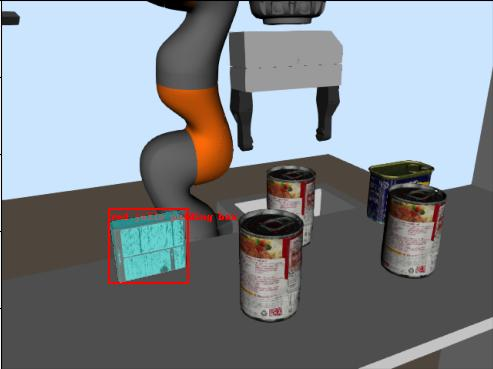
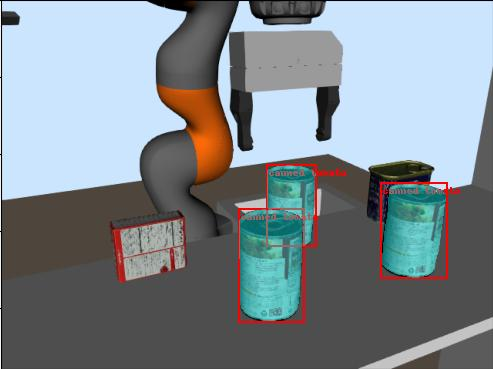
compute 3d coordinate from machine learning model

Changed region(s): [[0.213, 0.4173, 0.6998, 0.8943], [0.7606, 0.477, 0.9432, 0.7751]]

diff --git a/src/python/grasp_selector.py b/src/python/grasp_selector.py
@@ -1,13 +1,15 @@
 import numpy as np
 
 from pydrake.all import (AbstractValue, Concatenate, LeafSystem, PointCloud, RigidTransform, 
-                         RollPitchYaw, Sphere, Rgba, Image, ImageRgba8U)
+                         RollPitchYaw, Sphere, Rgba, Image, ImageRgba8U, ImageDepth16U, ImageDepth32F)
 
 from manipulation.clutter import GenerateAntipodalGraspCandidate
 
 import helpers
 
 import segmentation
+from  PIL import Image as PILImage
+from lang_sam.utils import draw_image
 
 import torchvision.transforms.functional as Tf
 import matplotlib.pyplot as plt
@@ -30,13 +32,12 @@ class GraspSelector(LeafSystem):
             "grasp_selection", lambda: AbstractValue.Make(
                 (np.inf, RigidTransform())), self.SelectGrasp)
         self.DeclareAbstractInputPort("rgb1", AbstractValue.Make(Image(31,31)))
+        self.DeclareAbstractInputPort("depth1", AbstractValue.Make(ImageDepth32F(31,31)))
         port.disable_caching_by_default()
 
         # Compute crop box.
         context = plant.CreateDefaultContext()
         X_B = RigidTransform([0,0,0])
-        #a = X_B.multiply([-.28, -.72, 0.36])
-        #b = X_B.multiply([0.26, -.47, 0.57])
         a = X_B.multiply(cropPointA)
         b = X_B.multiply(cropPointB)
 
@@ -44,8 +45,8 @@ class GraspSelector(LeafSystem):
         self.diag = diag
         self.cntxt31 = diag.CreateDefaultContext()
 
-        self.num_classes = 7
-        self.model, self.device = segmentation.setup_model(self.num_classes)
+        #self.num_classes = 7
+        #self.model, self.device = segmentation.setup_model(self.num_classes)
 
         # cntxt31 = diag.CreateDefaultContext()
         # rgb_im = diag.GetOutputPort('camera{}_rgb_image'.format(1)).Eval(cntxt31).data
@@ -74,14 +75,105 @@ class GraspSelector(LeafSystem):
         self._camera_body_indices = camera_body_indices
         self.running_as_notebook = running_as_notebook
 
+        self.lang_sam_model = segmentation.get_lang_sam("vit_b")
+
+
+        cam1 = diag.GetSubsystemByName("camera1")
+        self.cam_info = cam1.depth_camera_info()
+        print("CAM INFO", self.cam_info)
+
+        cam1_context = cam1.GetMyMutableContextFromRoot(cntxt31)
+        self.X_WC_Cam1 = cam1.body_pose_in_world_output_port().Eval(cam1_context)
+
+    def project_depth_to_pC(self, depth_pixel, uv=None):
+        """
+        project depth pixels to points in camera frame
+        using pinhole camera model
+        Input:
+            depth_pixels: numpy array of (nx3) or (3,)
+        Output:
+            pC: 3D point in camera frame, numpy array of (nx3)
+        """
+        # switch u,v due to python convention
+        v = depth_pixel[:, 0]
+        u = depth_pixel[:, 1]
+        Z = depth_pixel[:, 2]
+        # read camera intrinsics
+        cx = self.cam_info.center_x()
+        cy = self.cam_info.center_y()
+        fx = self.cam_info.focal_x()
+        fy = self.cam_info.focal_y()
+        X = (u - cx) * Z / fx
+        Y = (v - cy) * Z / fy
+        pC = np.c_[X, Y, Z]
+        return pC
+
     def SelectGrasp(self, context, output):
     
         rgb_im = self.get_input_port(4).Eval(context).data
         plt.imshow(rgb_im)
         plt.show()
-        # rgb_im = self.station.GetOutputPort('camera{}_rgb_image'.format(1)).Eval(self.cntxt31).data
-        # rgb_im = self.station.GetOutputPort('camera{}_rgb_image'.format(1))
-        # print(type(rgb_im))
+
+        #image_pil = Image.open(rgb_im).convert("RGB")
+        image_pil = PILImage.fromarray(rgb_im).convert("RGB")
+        plt.imshow(image_pil)
+        plt.show()
+        text_prompt = 'canned tomato'
+        masks, boxes, phrases, logits = self.lang_sam_model.predict(image_pil, text_prompt)
+        print("masks", masks)
+        print("masks shape", masks.shape)
+        print("boxes", boxes)
+        print("phrases", phrases)
+        print("logits", logits)
+
+        smallest_sum = [2**30,0,0] # value and coordinates
+        largest_sum = [0,0,0]
+
+        for x in range(masks[0].shape[0]):
+            for y in range(masks[0].shape[1]):
+                if masks[0][x][y] == True and x + y > largest_sum[0]:
+                    largest_sum = [x+y, x, y]
+                if masks[0][x][y] == True and x + y < smallest_sum[0]:
+                    smallest_sum = [x+y, x, y]
+
+        print("smallest sum", smallest_sum)
+        print("largest sum", largest_sum)
+
+        np_image = np.array(image_pil)
+        result = draw_image(np_image, masks, boxes, phrases)
+        plt.imshow(result)
+        plt.show()
+
+        
+
+                    
+
+
+        #rgb_im = self.station.GetOutputPort('camera{}_rgb_image'.format(1)).Eval(self.cntxt31).data
+        #rgb_im = self.station.GetOutputPort('camera{}_rgb_image'.format(1))
+        #print(type(rgb_im))
+
+        depth_im = self.get_input_port(5).Eval(context).data.squeeze()
+        #depth_im[depth_im == np.inf] = 50.0
+        print("DEPTH IMAGE", depth_im)
+        print("DEPTH SHAPE", depth_im.shape)
+
+        img_h, img_w = depth_im.shape
+        v_range = np.arange(img_h)
+        u_range = np.arange(img_w)
+        depth_u, depth_v = np.meshgrid(u_range, v_range)
+        depth_pnts = np.dstack([depth_v, depth_u, depth_im])
+        depth_pnts = depth_pnts.reshape([img_h * img_w, 3])
+        # point poses in camera frame
+        pC = self.project_depth_to_pC(depth_pnts)
+        print("PC", pC)
+        print("PC SHAPE", pC.shape)
+        pC = np.reshape(pC,(480,640,3))
+        print("PC", pC)
+        print("PC SHAPE", pC.shape)
+
+
+
 
         # res = self.model([Tf.to_tensor(rgb_im[:, :, :3]).to(self.device)])
 
@@ -110,12 +202,53 @@ class GraspSelector(LeafSystem):
         # plt.colorbar()
         # plt.show()
 
+        print("CROP POINTS", pC[smallest_sum[1]][smallest_sum[2]], pC[largest_sum[1]][largest_sum[2]])
+
+        X_Crop1 = self.X_WC_Cam1 @ RigidTransform(pC[smallest_sum[1]][smallest_sum[2]])
+        print("CROPPED FRAME1", X_Crop1)
+        X_Crop2 = self.X_WC_Cam1 @ RigidTransform(pC[largest_sum[1]][largest_sum[2]])
+        print("CROPPED FRAME2", X_Crop2)
+
+        # Solves: Failure at perception/point_cloud.cc:350 in Crop(): condition '(lower_xyz.array() <= upper_xyz.array()).all()' failed.
+        X_Crop1_Array = [X_Crop1.translation()[0], X_Crop1.translation()[1], X_Crop1.translation()[2]]
+        X_Crop2_Array = [X_Crop2.translation()[0], X_Crop2.translation()[1], X_Crop2.translation()[2]]
+
+        print(type(X_Crop1_Array))
+        print(X_Crop1_Array)
+        print(X_Crop2_Array)
+
+        if X_Crop1_Array[0] > X_Crop2_Array[0]:
+            tmp = X_Crop2_Array[0]
+            X_Crop2_Array[0] = X_Crop1_Array[0]
+            X_Crop1_Array[0] = tmp
+        if X_Crop1_Array[1] > X_Crop2_Array[1]:
+            tmp = X_Crop2_Array[1]
+            X_Crop2_Array[1] = X_Crop1_Array[1]
+            X_Crop1_Array[1] = tmp
+        if X_Crop1_Array[2] > X_Crop2_Array[2]:
+            tmp = X_Crop2_Array[2]
+            X_Crop2_Array[2] = X_Crop1_Array[2]
+            X_Crop1_Array[2] = tmp
+
+        print(X_Crop1_Array)
+        print(X_Crop2_Array)
+        X_Crop1_Array[0] = X_Crop1_Array[0] - 0.025
+        X_Crop1_Array[1] = X_Crop1_Array[1] - 0.025
+        X_Crop1_Array[2] = X_Crop1_Array[2] - 0.025
+
+        X_Crop2_Array[0] = X_Crop2_Array[0] + 0.025
+        X_Crop2_Array[1] = X_Crop2_Array[1] + 0.025
+        X_Crop2_Array[2] = X_Crop2_Array[2] + 0.025
+
+        print(X_Crop1_Array)
+        print(X_Crop2_Array)
 
         body_poses = self.get_input_port(3).Eval(context)
         pcd = []
         for i in range(3):
             cloud = self.get_input_port(i).Eval(context)
-            pcd.append(cloud.Crop(self._crop_lower, self._crop_upper))
+            #pcd.append(cloud.Crop(self._crop_lower, self._crop_upper))
+            pcd.append(cloud.Crop(np.array(X_Crop1_Array), np.array(X_Crop2_Array)))
             pcd[i].EstimateNormals(radius=0.1, num_closest=30)
 
             # Flip normals toward camera
@@ -138,9 +271,12 @@ class GraspSelector(LeafSystem):
 
         if len(costs) == 0:
             # Didn't find a viable grasp candidate
+            print("Didn't find a viable grasp candidate")
             X_WG = RigidTransform(RollPitchYaw(-np.pi / 2, 0, np.pi / 2),
                                   [0.5, 0, 0.22])
             output.set_value((np.inf, X_WG))
         else:
             best = np.argmin(costs)
             output.set_value((costs[best], X_Gs[best]))
+
+

diff --git a/src/python/main.py b/src/python/main.py
@@ -60,6 +60,10 @@ directives:
     # point cloud cropbox points
     cropPointA = [-.28, -.72, 0.36]
     cropPointB = [0.26, -.47, 0.57]
+    cropPointA = [0.18202094, -0.47112631, 0.45539139]
+    cropPointB = [0.21514061, -0.52862136,  0.37475978]
+    cropPointA = [0.157020942185328, -0.553621358846587, 0.349759780950789]
+    cropPointB = [0.24014060528532993, -0.44612630542428905, 0.48039139159501026]
 
     x_bin_grasp_selector = builder.AddSystem(
         grasp_selector.GraspSelector(plant,
@@ -78,6 +82,7 @@ directives:
     builder.Connect(station.GetOutputPort("camera2_point_cloud"), x_bin_grasp_selector.get_input_port(2))
     builder.Connect(station.GetOutputPort("body_poses"), x_bin_grasp_selector.GetInputPort("body_poses"))
     builder.Connect(station.GetOutputPort("camera1_rgb_image"), x_bin_grasp_selector.get_input_port(4))
+    builder.Connect(station.GetOutputPort("camera1_depth_image"), x_bin_grasp_selector.get_input_port(5))
 
     planner = builder.AddSystem(planner_class.Planner(plant, JOINT_COUNT, meshcat, rs, PREPICK_DISTANCE))
     builder.Connect(station.GetOutputPort("body_poses"), planner.GetInputPort("body_poses"))

diff --git a/src/python/segmentation.py b/src/python/segmentation.py
@@ -26,7 +26,7 @@ from manipulation.clutter import GenerateAntipodalGraspCandidate
 from manipulation.scenarios import AddRgbdSensors
 from manipulation.utils import AddPackagePaths, LoadDataResource
 
-
+from lang_sam import LangSAM
 
 mustard_ycb_idx = 3
 
@@ -63,6 +63,10 @@ def setup_model(num_classes):
     model.to(device)
 
     return model, device
+
+
+def get_lang_sam(sam_type):
+    return LangSAM(sam_type)
 
 
 

diff --git a/src/python/segmentation/test.py b/src/python/segmentation/test.py
@@ -6,7 +6,7 @@ import numpy as np
 model = LangSAM(sam_type="vit_b")
 image_pil = Image.open('src/python/segmentation/grocery_tomato.png').convert("RGB")
 np_image = np.array(Image.open('src/python/segmentation/grocery_tomato.png'))
-text_prompt = 'red jello pudding box'
+text_prompt = 'canned tomato'
 masks, boxes, phrases, logits = model.predict(image_pil, text_prompt)
 
 print("Masks", masks)
